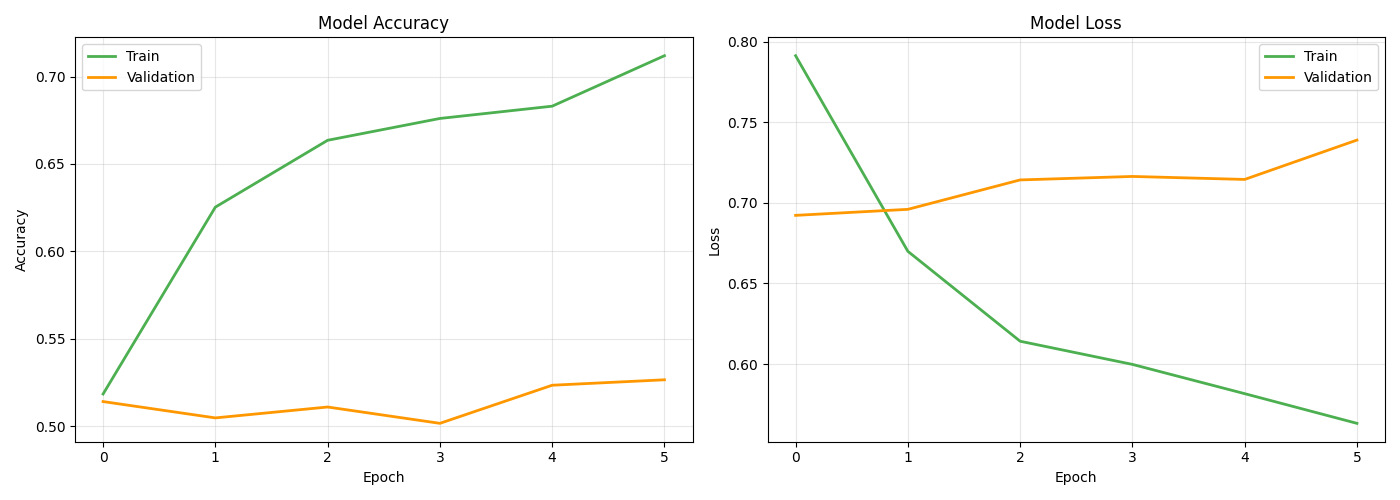
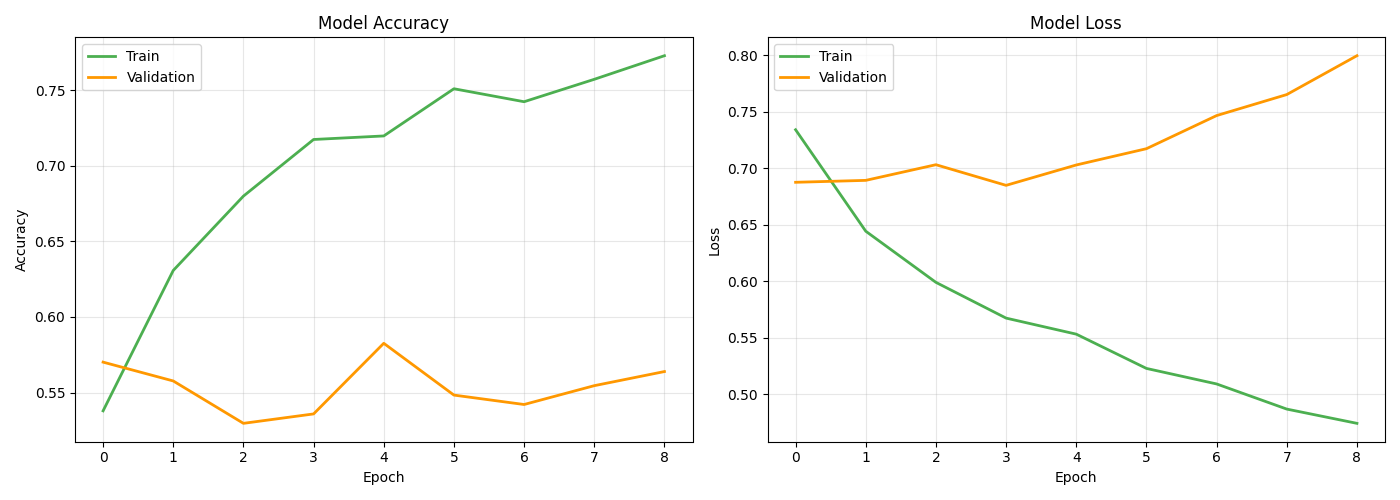
kkkk

diff --git a/setup_telegram.py b/setup_telegram.py
@@ -115,27 +115,58 @@ def save_env_file(token, chat_id, env_path=".env"):
         print(f"  📝 Updated .gitignore with: {', '.join(new_entries)}")
 
 
+def auto_fetch_chat_id(token):
+    import requests
+    import time
+    print("\n  ⏳ To get your Chat ID automatically:")
+    print("  1. Open Telegram and search for your bot's username.")
+    print("  2. Click 'Start' or send any message (like 'hello').")
+    print("  3. Waiting for your message... (Polling for 60 seconds)")
+    
+    url = f"https://api.telegram.org/bot{token}/getUpdates"
+    
+    for _ in range(30):
+        try:
+            response = requests.get(url, timeout=5)
+            data = response.json()
+            if data.get("ok") and data.get("result"):
+                # Get the chat ID from the last message received
+                chat_id = data["result"][-1]["message"]["chat"]["id"]
+                return str(chat_id)
+        except Exception:
+            pass
+            
+        time.sleep(2)
+        print("  ... still waiting ...")
+        
+    return None
+
 def main():
     print_banner()
     print_instructions()
 
     # --- Bot Token ---
     while True:
-        token = input("  🔑 Paste your Bot Token: ").strip()
+        token = input("\n  🔑 Paste your Bot Token: ").strip()
         if validate_token(token):
             print("  ✅ Token format looks good!")
             break
         else:
             print("  ❌ Invalid token format. Should look like: 123456789:ABCDefGHI-jklMNO...")
 
-    # --- Chat ID ---
-    while True:
-        chat_id = input("  💬 Paste your Chat ID: ").strip()
-        if validate_chat_id(chat_id):
-            print("  ✅ Chat ID accepted!")
-            break
-        else:
-            print("  ❌ Invalid Chat ID. Should be a number (negative for groups).")
+    # --- Auto-Fetch Chat ID ---
+    chat_id = auto_fetch_chat_id(token)
+    if chat_id:
+        print(f"  ✅ Magically grabbed your Chat ID: {chat_id}")
+    else:
+        print("\n  ❌ Could not automatically fetch Chat ID (timed out).")
+        while True:
+            chat_id = input("  💬 Please manually paste your Chat ID: ").strip()
+            if validate_chat_id(chat_id):
+                print("  ✅ Chat ID accepted!")
+                break
+            else:
+                print("  ❌ Invalid Chat ID. Should be a number.")
 
     # --- Save ---
     env_path = os.path.join(os.path.dirname(os.path.abspath(__file__)), ".env")

diff --git a/config.py b/config.py
@@ -146,7 +146,7 @@ class Config:
     # =========================================
     # Telegram Notifications
     # =========================================
-    TELEGRAM_ENABLED = False             # Set to True after running setup_telegram.py
+    TELEGRAM_ENABLED = True              # Set to True after running setup_telegram.py
     TELEGRAM_ENV_FILE = ".env"           # Credentials file (generated by setup script)
 
     # Spam Control
